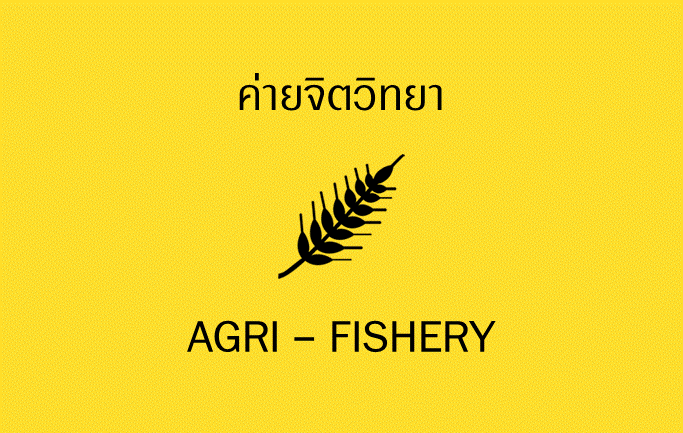
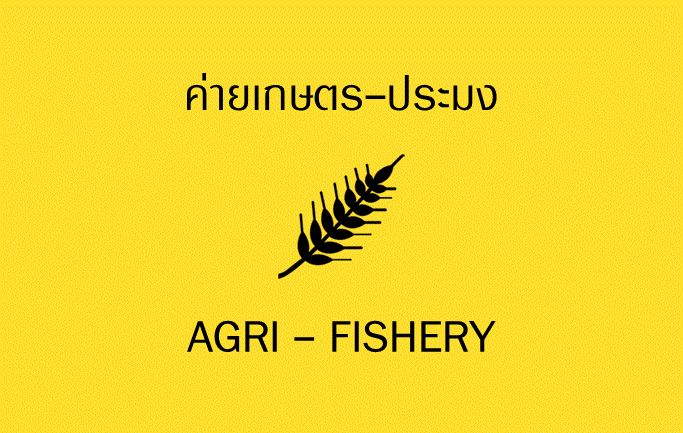
th

Changed region(s): [[0.0, 0.1801, 1.0, 1.0]]

diff --git a/resources/lang/th/camp_category.php b/resources/lang/th/camp_category.php
@@ -1,0 +1,30 @@
+<?php
+
+return  [
+
+    'Engineering' => 'ค่ายวิศวะ',
+    'Science' => 'ค่ายวิทยาศาสตร์',
+    'Computer' => 'ค่ายคอม/ไอที',
+    'Education' => 'ค่ายครุ',
+    'Architectural' => 'ค่ายสถาปัตยกรรม',
+    'Law' => 'ค่ายนิติ',
+    'Language-Human' => 'ค่ายอักษร-มนุษยศาตร์',
+    'Commart' => 'ค่ายนิเทศ-วงรสาร',
+    'Health' => 'ค่ายหมอ-เภสัช-สุขภาพ',
+    'Doctor' => 'ค่ายหมอ',
+    'Nurse' => 'ค่ายพยาบาล',
+    'Dentist' => 'ค่ายทันตะ',
+    'Psychology' => 'ค่ายจิตวิทยา',
+    'Pharmacy' => 'ค่ายเภสัช',
+    'Music' => 'ค่ายดนตรี',
+    'Tutor' => 'ค่ายติว',
+    'Account-Economic' => 'ค่ายเศรษฐศาสตร์-บัญชี-บริหาร',
+    'Social-Science' => 'ค่ายสังคมศาสตร์',
+    'Veter' => 'ค่ายสัตวแพทย์',
+    'Art' => 'ค่ายศิลปะ',
+    'Agri-Fishery' => 'ค่ายเกษตร-ประมง',
+    'Political' => 'ค่ายรัฐศาสตร์',
+    'Youth' => 'ค่ายพัฒนาเยาวชน',
+    'Preserve' => 'ค่ายอนุรักษ์ธรรมชาติ',
+
+];

diff --git a/resources/lang/en/camp_category.php b/resources/lang/en/camp_category.php
@@ -1,0 +1,30 @@
+<?php
+
+return  [
+
+    'Engineering' => 'Engineering',
+    'Science' => 'Science',
+    'Computer' => 'Computer',
+    'Education' => 'Education',
+    'Architectural' => 'Architectural',
+    'Law' => 'Law',
+    'Language-Human' => 'Language-Human',
+    'Commart' => 'Commart',
+    'Health' => 'Health',
+    'Doctor' => 'Doctor',
+    'Nurse' => 'Nurse',
+    'Dentist' => 'Dentist',
+    'Psychology' => 'Psychology',
+    'Pharmacy' => 'Pharmacy',
+    'Music' => 'Music',
+    'Tutor' => 'Tutor',
+    'Account-Economic' => 'Account-Economic',
+    'Social-Science' => 'Social-Science',
+    'Veter' => 'Veter',
+    'Art' => 'Art',
+    'Agri-Fishery' => 'Agri-Fishery',
+    'Political' => 'Political',
+    'Youth' => 'Youth',
+    'Preserve' => 'Preserve',
+
+];
